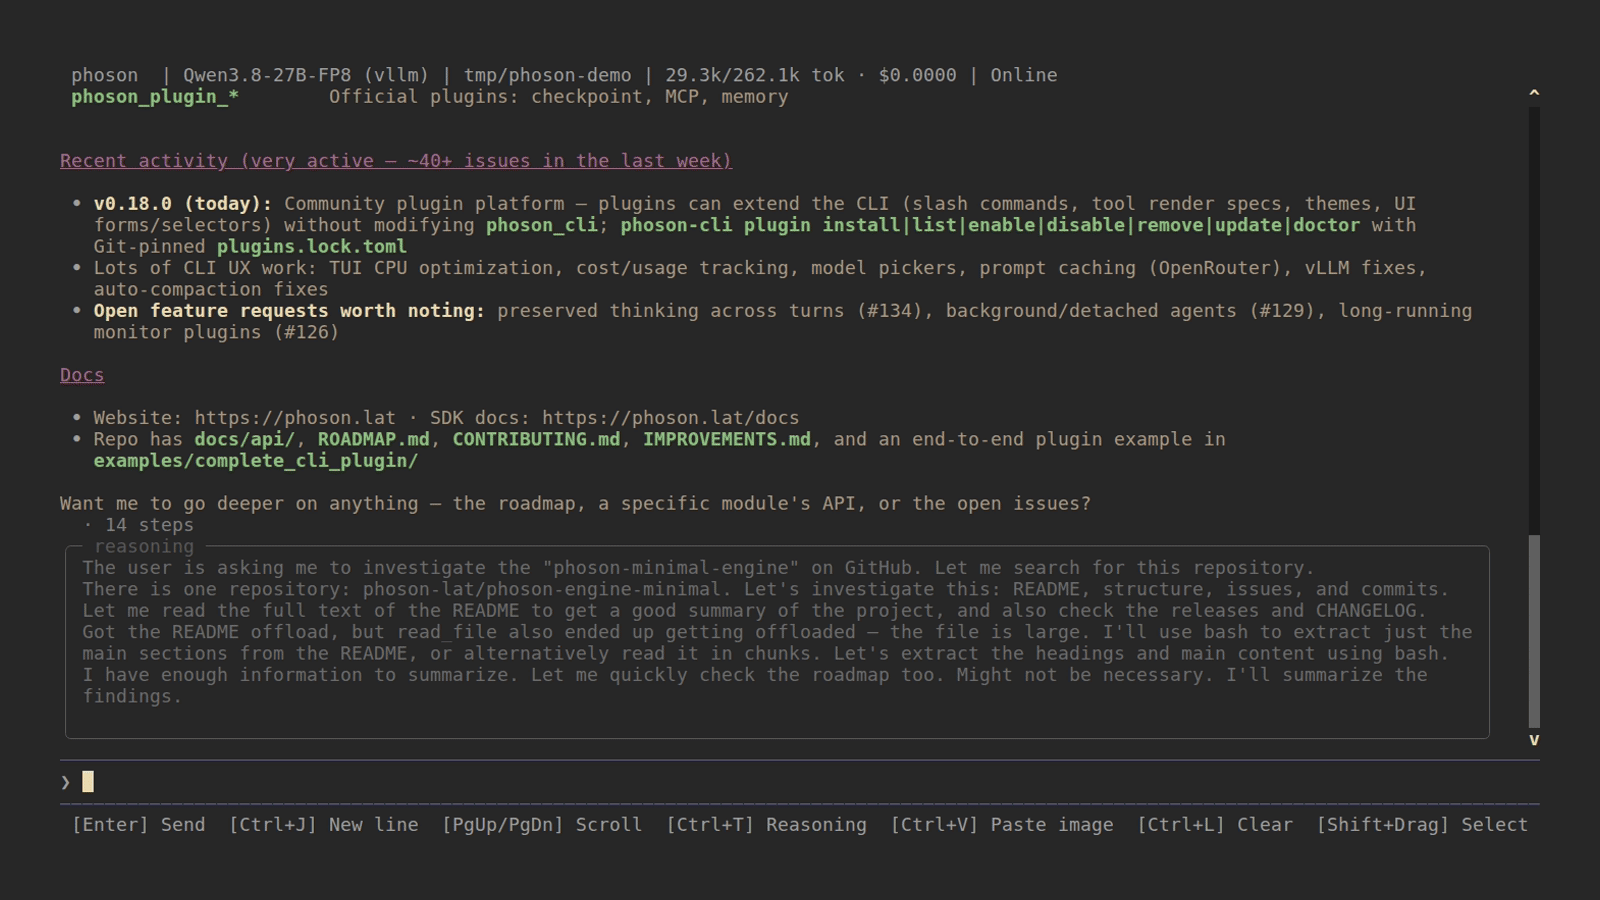
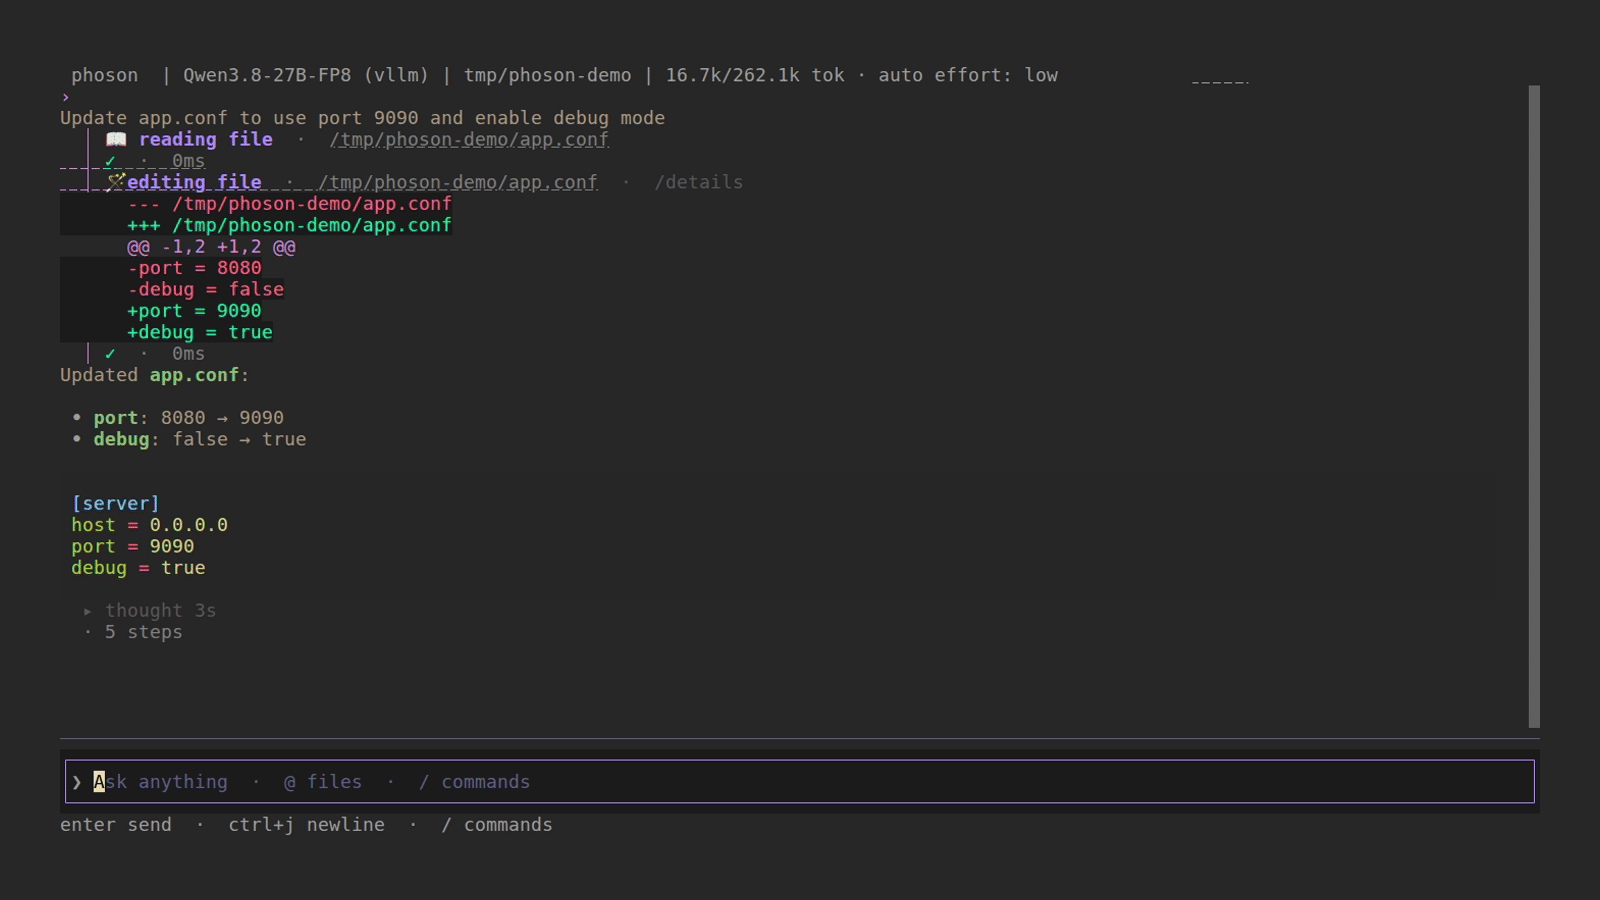
docs(readme): regenerate hero with a patch_file diff, not a research dump (T-10, #160)

diff --git a/IMPROVEMENTS-TUI.md b/IMPROVEMENTS-TUI.md
@@ -47,7 +47,7 @@ Ingeniería de UI: ~8/10. Look de harness: ~5/10. La brecha es **dirección**, n
 | **T-7** | [#157](https://github.com/phoson-lat/phoson-engine-minimal/issues/157) | Tool cards: glifo por familia, collapse, diff con fondo, `created` vs `updated` | **P1** | M | 🟠 Las tools *son* el producto | ✅ Hecho (Sprint look 1): glifos 📖📂🖼/✍🪄/⌘/🔎🔗/📜 (cards + spinner clásico); diff `+`/`−` con fondo (tokens `diff_add_bg`/`diff_del_bg`); `write_file` dice Created/Updated; paths como OSC 8 `file://`; `/details` toggla el cuerpo colapsado en place |
 | **T-8** | [#158](https://github.com/phoson-lat/phoson-engine-minimal/issues/158) | Tema `system` (hereda fg/bg del terminal) + JSON en `~/.phoson/themes/` | **P1** | M | 🟠 Deja de pelearse con Gruvbox/Catppuccin | ✅ Hecho (Sprint look 1): tier `system` **default** sin `on #rrggbb` (accent = spinner/focus cyan); JSON drop-in en `~/.phoson/themes/*.json` (base + tokens, aparece en `/theme`); la pregunta light/dark de E4 queda obsoleta (el terminal ya resuelve) |
 | **T-9** | [#159](https://github.com/phoson-lat/phoson-engine-minimal/issues/159) | Footer contextual (3 hints) + scrollbar sin flechas | **P1** | S | 🟡 Discoverability real, no cheatsheet cortada | ✅ Hecho (Sprint look 1): footer 3-hints por estado (idle/running/picker); Shift+Drag → `/keys` + docs; scrollbar sin flechas |
-| **T-10** | [#160](https://github.com/phoson-lat/phoson-engine-minimal/issues/160) | Hero tape con un **diff**, no un research dump + Ctrl+T | **P2** | S | 🟡 El README vende el producto correcto | Sprint look 2 |
+| **T-10** | [#160](https://github.com/phoson-lat/phoson-engine-minimal/issues/160) | Hero tape con un **diff**, no un research dump + Ctrl+T | **P2** | S | 🟡 El README vende el producto correcto | ✅ Hecho (post-v0.23.0): hero regenerado con VHS 0.11 — tape `app.conf` (read → `patch_file` con diff `+/−` visible → respuesta → composer idle); sin ASCII, sin "Online", sin research dump; `tui.gif` 7.8 MB → 250 KB |
 | **T-12** | [#162](https://github.com/phoson-lat/phoson-engine-minimal/issues/162) | Command palette + `!` bash (gestos SOTA, no look puro) | **P2** | M | 🟡 Paridad de interacción con OpenCode/Claude | ✅ Hecho (v0.23.0): `Ctrl+P` abre picker fuzzy (native + plugin slash commands) reusando `model_picker._fuzzy_score` y el scaffolding de Float; `!cmd` corre en el shell gateado por la misma bash permission policy (ask → card T-6, `load_policy` re-leído en run-time) y el output entra como bash tool card normal (`add_bash_card`) |
 | **T-13** | *(nuevo, 2026-08-31)* | Chip de reasoning effort en header + `Ctrl+E` cicla `off→…→max` (patrón T-6) | **P1** | S | 🟡 La perilla existe (`/reasoning-effort`) pero no se ve ni se toca sin slash | ✅ Hecho (v0.20.0): chip `effort: high` / `· effort off` en header; `Ctrl+E` cicla y persiste (`save_config`), aplica al siguiente run; remapeable en `[keys]`, aparece en `/keys` |
 
@@ -150,11 +150,12 @@ Ingeniería de UI: ~8/10. Look de harness: ~5/10. La brecha es **dirección**, n
 * **Solución:** 3 hints según estado. Idle: `enter send  ·  ctrl+j newline  ·  / commands`. Running: `esc cancel`. Picker: `enter  ·  esc`. Shift+Drag se queda en `docs/cli/mouse-and-links.md` y `/keys`. ScrollbarMargin sin flechas, o nada (el wheel ya funciona).
 * **Criterio de listo:** a 80 columnas el footer no se trunca. Test del hint idle vs running.
 
-### T-10 — Hero que vende un harness
+### T-10 — Hero que vende un harness ✅ *done (post-v0.23.0)*
 
 * **Área:** `assets/tui.tape` (prompt de research GitHub + Ctrl+T).
 * **Solución:** tape de un `patch_file` (diff visible) + composer idle. Sin ASCII, sin reasoning panel, sin “Official plugins”. Regenerar `tui.gif` / `tui.png` **después** de T-1…T-5.
 * **Criterio de listo:** el PNG del README muestra una tool card de edición, no un dump de markdown de GitHub.
+* **Hecho:** el hero viejo (era I-115, pre-sprint) mostraba un research dump de GitHub contra el chrome viejo ("Online", badges). Nuevo tape: `app.conf` de 4 líneas → prompt "Update app.conf to use port 9090 and enable debug mode" → `reading file` + `✎ editing file` con el diff `+/−` coloreado (T-7) → respuesta con el before/after → `▸ thought Ns` (T-3) → composer idle (T-4). El `Ctrl+T` de expandir reasoning quedó fuera: el diff ya es el foco y expandir el scratchpad en el hero añade ruido. Regenerado contra vLLM local con VHS 0.11 + ttyd 1.7.7 (wrapper `env -i` del `assets/README.md`); `tui.png` = último frame. Bonus: `demo.gif` (one-shot) también era pre-sprint y se refrescó con el mismo pipeline; `tui.gif` bajó de 7.8 MB a 250 KB al reducir el run de 30 s a ~10 s.
 
 ### T-12 — Gestos SOTA (después del look) ✅ *released (v0.23.0)*
 
@@ -254,7 +255,7 @@ Sprint look 1 (P1) — HECHO (2026-08-31, 4 commits)
   T-13 chip de reasoning effort + Ctrl+E  ✅ (patrón T-6)
 
 Sprint look 2
-  T-10 hero tape (después de 0+1, si no el GIF miente)
+  T-10 hero tape               ✅ (post-v0.23.0: `patch_file` + diff, VHS 0.11)
   T-12 palette + ! bash      ✅ (v0.23.0)
   T-11 se queda cerrado salvo que el look siga siendo el gap
 ```

diff --git a/ISSUES-COMPLEXITY.md b/ISSUES-COMPLEXITY.md
@@ -2,7 +2,7 @@
 
 > **Origen:** revisión de los 17 issues abiertos de `phoson-lat/phoson-engine-minimal` (129, 134, 138–150, 151–162) leídos uno por uno, no solo por la etiqueta de esfuerzo.
 >
-> **Estado de referencia:** 2026-09-01 · v0.23.0 (v0.20.0: T-5, T-6, T-7, T-8, T-9, T-13 released; v0.20.1: fix de consistencia de display del model picker; v0.20.2: #150 cerrado; v0.21.0: T-1/T-2 — #151, #152 cerrados; v0.22.0: T-3/T-4 — #153, #154 cerrados; v0.23.0: T-12 — #162 cerrado).
+> **Estado de referencia:** 2026-09-01 · v0.23.0 + post-release (v0.20.0: T-5, T-6, T-7, T-8, T-9, T-13 released; v0.20.1: fix de consistencia de display del model picker; v0.20.2: #150 cerrado; v0.21.0: T-1/T-2 — #151, #152 cerrados; v0.22.0: T-3/T-4 — #153, #154 cerrados; v0.23.0: T-12 — #162 cerrado; post-v0.23.0: T-10 — #160 cerrado, hero assets regenerados).
 >
 > **Criterio de la orden:** superficie de código tocada + dependencias + riesgo de regresión + dificultad del criterio de listo. "Complejo" aquí no es lo mismo que "P0" — #138 es P0 del plan de harness y es de los fixes más baratos del repo.
 >
@@ -41,7 +41,7 @@
 | 23 | [#149](https://github.com/phoson-lat/phoson-engine-minimal/issues/149) | Handoff multi-sesión (diferido hasta #129) | 4 | 🔴 |
 | 24 | [#129](https://github.com/phoson-lat/phoson-engine-minimal/issues/129) | Background agents (6 slices) | 4 | 🔴 |
 | — | [#161](https://github.com/phoson-lat/phoson-engine-minimal/issues/161) | T-11 — ADR renderer (decisión, no código) | — | 🔶 (ADR escrito en `IMPROVEMENTS-TUI.md` §B; falta el acuerdo) |
-| — | [#160](https://github.com/phoson-lat/phoson-engine-minimal/issues/160) | T-10 — Hero tape (secuencial: tras look 0+1) | 1 | 🔴 (los assets actuales son de I-115, pre-sprint) |
+| — | [#160](https://github.com/phoson-lat/phoson-engine-minimal/issues/160) | T-10 — Hero tape (secuencial: tras look 0+1) | 1 | ✅ post-v0.23.0 (hero = `patch_file` con diff + composer idle; regenerado con VHS 0.11; `tui.gif` 7.8 MB → 250 KB; `demo.gif` refrescado) |
 | — | [#148](https://github.com/phoson-lat/phoson-engine-minimal/issues/148) | Tool budget / lazy loading (hoy: "medir" vía #140) | — | 🔴 |
 
 ---
@@ -242,7 +242,7 @@
 | Issue | Tipo | Nota |
 |-------|------|------|
 | [#161](https://github.com/phoson-lat/phoson-engine-minimal/issues/161) T-11 ADR | Decisión | El ADR ya está escrito (`IMPROVEMENTS-TUI.md` §B); falta el acuerdo del equipo. Solo se vuelve L si alguien fuerza cambiar de toolkit. |
-| [#160](https://github.com/phoson-lat/phoson-engine-minimal/issues/160) T-10 hero | Secuencial | S en sí (un VHS tape), pero el GIF miente si se hace antes que T-1…T-9. |
+| [#160](https://github.com/phoson-lat/phoson-engine-minimal/issues/160) T-10 hero | Secuencial | ✅ post-v0.23.0: hero regenerado — `patch_file` con diff visible + composer idle (VHS 0.11, vLLM local). `demo.gif` también refrescado. |
 | [#148](https://github.com/phoson-lat/phoson-engine-minimal/issues/148) tool budget | Medición | Hoy es "instrumentar y mirar": sale gratis con #140. Feature solo si los datos lo justifican. Restricción crítica: no remover tools a mitad de sesión (KV-cache). |
 
 ---
@@ -264,7 +264,7 @@ Fase 3 — sprint look 1 + fixes independientes
 Fase 4 — la infra del harness (se alimentan entre sí)
   #140 slice 1 (trace-file JSON)  →  #139 (eval set + gate nightly)   [#138 ✅ ya destraba el modelo fijo]
   #161 (acuerdo del ADR, cuando toque)
-  #160 (hero tape, recién con look 0+1 merged)
+  #160 (hero tape)   ✅ post-v0.23.0 (patch_file + diff, VHS 0.11; demo.gif refrescado)
   #162 (palette + ! bash)   ✅ v0.23.0 (PR #170; desbloqueado por #154 ✅ v0.22.0 y #156 ✅ v0.20.0)
 
 Fase 5 — cadena de reasoning

diff --git a/assets/README.md b/assets/README.md
@@ -7,12 +7,12 @@ reproducible from the committed `.tape` files.
 | File | Tape | What it shows |
 |------|------|---------------|
 | `demo.gif` | [`demo.tape`](demo.tape) | One-shot mode: prompt → `read_file` tool call → final answer |
-| `tui.gif` | [`tui.tape`](tui.tape) | Full-screen TUI mid-conversation (animated hero) |
+| `tui.gif` | [`tui.tape`](tui.tape) | Full-screen TUI mid-conversation: a `patch_file` edit card with its `+/−` diff (animated hero, T-10) |
 | `tui.png` | (last frame of `tui.gif`) | Still of the same capture, kept as a lightweight alternative |
 
 ## Prerequisites
 
-- `vhs` ≥ 0.10 (`go install github.com/charmbracelet/vhs@latest` or a
+- `vhs` ≥ 0.11 (`go install github.com/charmbracelet/vhs@latest` or a
   release binary)
 - `ttyd` ≥ 1.7.2 on `$PATH` (release binary from
   [tsl0922/ttyd](https://github.com/tsl0922/ttyd/releases))
@@ -25,6 +25,7 @@ reproducible from the committed `.tape` files.
 ```bash
 mkdir -p /tmp/phoson-demo
 echo 'hello from phoson' > /tmp/phoson-demo/hello.txt
+printf '[server]\nhost = 0.0.0.0\nport = 8080\ndebug = false\n' > /tmp/phoson-demo/app.conf
 cd assets
 
 # The env -i + SHELL=/bin/bash wrapper keeps the capture clean of the
@@ -38,5 +39,5 @@ ffmpeg -sseof -0.5 -i tui.gif -frames:v 1 tui.png   # optional still
 ```
 
 The `Sleep` values in the tapes assume a sub-~12 s model run; bump them
-if your backend is slower (`tui.tape` uses a 30 s run for its research
+if your backend is slower (`tui.tape` uses a 20 s wait for its edit
 prompt).
